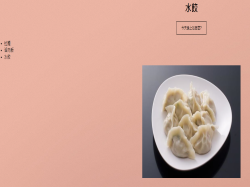
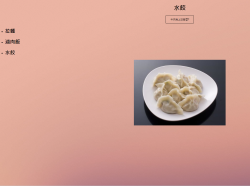
new
new

diff --git a/index.html b/index.html
@@ -48,40 +48,59 @@
 								<section>
 									<div class="row">
 										<div class="col-4 col-6-medium col-12-small">
-											<a href="今天吃甚麼/index.html" target="_blank" class="image fit"><img src="1.png" alt=""></a>
+											<div class="container">
+												<a href="今天吃甚麼/index.html" target="_blank" class="image fit"><img src="1.png" alt="">
+													<div class="overlay">
+														<div class="content-in-hover">
+															<div class="head-in-hover">今天吃甚麼</div>
+														</div>
+													</div>
+												</a>
+											</div>
+									    </div>
+										<div class="col-4 col-6-medium col-12-small">
+											<div class="container">
+												<a href="自動排課系統/index.html" target="_blank" class="image fit"><img src="2.png" alt="">
+													<div class="overlay">
+														<div class="content-in-hover">
+															<div class="head-in-hover">自動排課系統</div>
+														</div>
+													</div>
+												</a>
+											</div>
 										</div>
 										<div class="col-4 col-6-medium col-12-small">
-											<a href="自動排課系統/index.html" target="_blank" class="image fit"><img src="2.png" alt=""></a>
+											<div class="container">
+												<a href="心理測驗/index.html" target="_blank" class="image fit"><img src="3.png" alt="">
+													<div class="overlay">
+														<div class="content-in-hover">
+															<div class="head-in-hover">心理測驗</div>
+														</div>
+													</div>
+												</a>
+											</div>
 										</div>
 										<div class="col-4 col-6-medium col-12-small">
-											<a href="心理測驗/index.html" target="_blank" class="image fit"><img src="images/pic03.jpg" alt=""></a>
+											<div class="container">
+												<a href="RPG games/index.html" target="_blank" class="image fit"><img src="4.png" alt="">
+													<div class="overlay">
+														<div class="content-in-hover">
+															<div class="head-in-hover">RPG games</div>
+														</div>
+													</div>
+												</a>
+											</div>
 										</div>
 										<div class="col-4 col-6-medium col-12-small">
-											<a href="RPG games/index.html" target="_blank" class="image fit"><img src="4.png" alt=""></a>
-										</div>
-										<div class="col-4 col-6-medium col-12-small">
-											<a href="YouTube心情點唱機/index.html" target="_blank" class="image fit"><img src="images/pic05.jpg" alt=""></a>
-										</div>
-										<div class="col-4 col-6-medium col-12-small">
-											<a href="#" class="image fit"><img src="images/pic06.jpg" alt=""></a>
-										</div>
-										<div class="col-4 col-6-medium col-12-small">
-											<a href="#" class="image fit"><img src="images/pic07.jpg" alt=""></a>
-										</div>
-										<div class="col-4 col-6-medium col-12-small">
-											<a href="#" class="image fit"><img src="images/pic08.jpg" alt=""></a>
-										</div>
-										<div class="col-4 col-6-medium col-12-small">
-											<a href="#" class="image fit"><img src="images/pic09.jpg" alt=""></a>
-										</div>
-										<div class="col-4 col-6-medium col-12-small">
-											<a href="#" class="image fit"><img src="images/pic10.jpg" alt=""></a>
-										</div>
-										<div class="col-4 col-6-medium col-12-small">
-											<a href="#" class="image fit"><img src="images/pic11.jpg" alt=""></a>
-										</div>
-										<div class="col-4 col-6-medium col-12-small">
-											<a href="#" class="image fit"><img src="images/pic12.jpg" alt=""></a>
+											<div class="container">
+												<a href="YouTube心情點唱機/index.html" target="_blank" class="image fit"><img src="5.png" alt="">
+													<div class="overlay">
+														<div class="content-in-hover">
+															<div class="head-in-hover">YT心情點唱機</div>
+														</div>
+													</div>
+												</a>
+											</div>
 										</div>
 									</div>
 								</section>

diff --git a/assets/css/main.css b/assets/css/main.css
@@ -2183,3 +2183,48 @@ input, select, textarea {
 			}
 
 		}
+		.container {
+			position: relative;
+			/* width: 50%; */
+		}
+		
+		.image {
+			display: block;
+			width: 100%;
+			height: auto;
+		}
+		
+		.overlay {
+			position: absolute;
+			top: 0;
+			bottom: 0;
+			left: 0;
+			right: 0;
+			height: 100%;
+			width: 100%;
+			opacity: 0;
+			transition: .5s ease;
+			background-color: whitesmoke;
+		}
+		
+		.container:hover .overlay {
+			opacity: .8;
+		}
+		
+		.head-in-hover {
+			color: black;
+			font-size: 20px;
+			
+		}
+		
+		.content-in-hover{
+			color: rgb(61, 61, 61);
+			font-size: 15px;
+			position: absolute;
+			top: 50%;
+			left: 50%;
+			-webkit-transform: translate(-50%, -50%);
+			-ms-transform: translate(-50%, -50%);
+			transform: translate(-50%, -50%);
+			text-align: center;
+		}

diff --git a/今天吃甚麼/index.html b/今天吃甚麼/index.html
@@ -19,9 +19,9 @@
         <h1>?</h1>
         <center><input type="button" class="shape-ex1" value="今天晚上吃甚麼?"></center>
         <ul>
-            <li>拉麵</li>
-            <li>滷肉飯</li>
-            <li>水餃</li>
+            <li><h2>拉麵</h2></li>
+            <li><h2>滷肉飯</h2></li>
+            <li><h2>水餃</h2></li>
         </ul>
         <img>
         <script src="https://code.jquery.com/jquery-3.6.0.js" integrity="sha256-H+K7U5CnXl1h5ywQfKtSj8PCmoN9aaq30gDh27Xc0jk=" crossorigin="anonymous"></script>

diff --git a/自動排課系統/index.html b/自動排課系統/index.html
@@ -17,6 +17,7 @@
             <p class="browsehappy">You are using an <strong>outdated</strong> browser. Please <a href="#">upgrade your browser</a> to improve your experience.</p>
         <![endif]-->
         <h1>社團課程時間表</h1>
+        <div><p><h2>if it deosn't appear, please refresh or try again.</h2></p></div>
         <form action="#" id="select">
             <input type="text" id="month" placeholder="月">
             <input type="text" id="day" placeholder="日">

diff --git a/RPG games/index.html b/RPG games/index.html
@@ -6,6 +6,7 @@
         <link rel="stylesheet" href="style.css">
     </head>
     <body>
+        <div><p><h2>if it deosn't appear, please refresh.</h2></p></div>
         <h1>我要去右下角</h1>
         <div>
             <canvas id="myCanvas" width="800" height="800"></canvas>

diff --git a/RPG games/style.css b/RPG games/style.css
@@ -18,3 +18,7 @@ canvas{
     font-size: 26px;
     font-weight: bold;
 }
+
+#boder{
+    border-style:dashed;
+}

diff --git a/今天吃甚麼/style.css b/今天吃甚麼/style.css
@@ -25,3 +25,7 @@ li{
     background-color: #000;
     color: #fff;
 }
+
+li{
+    font-size:18px;
+}
